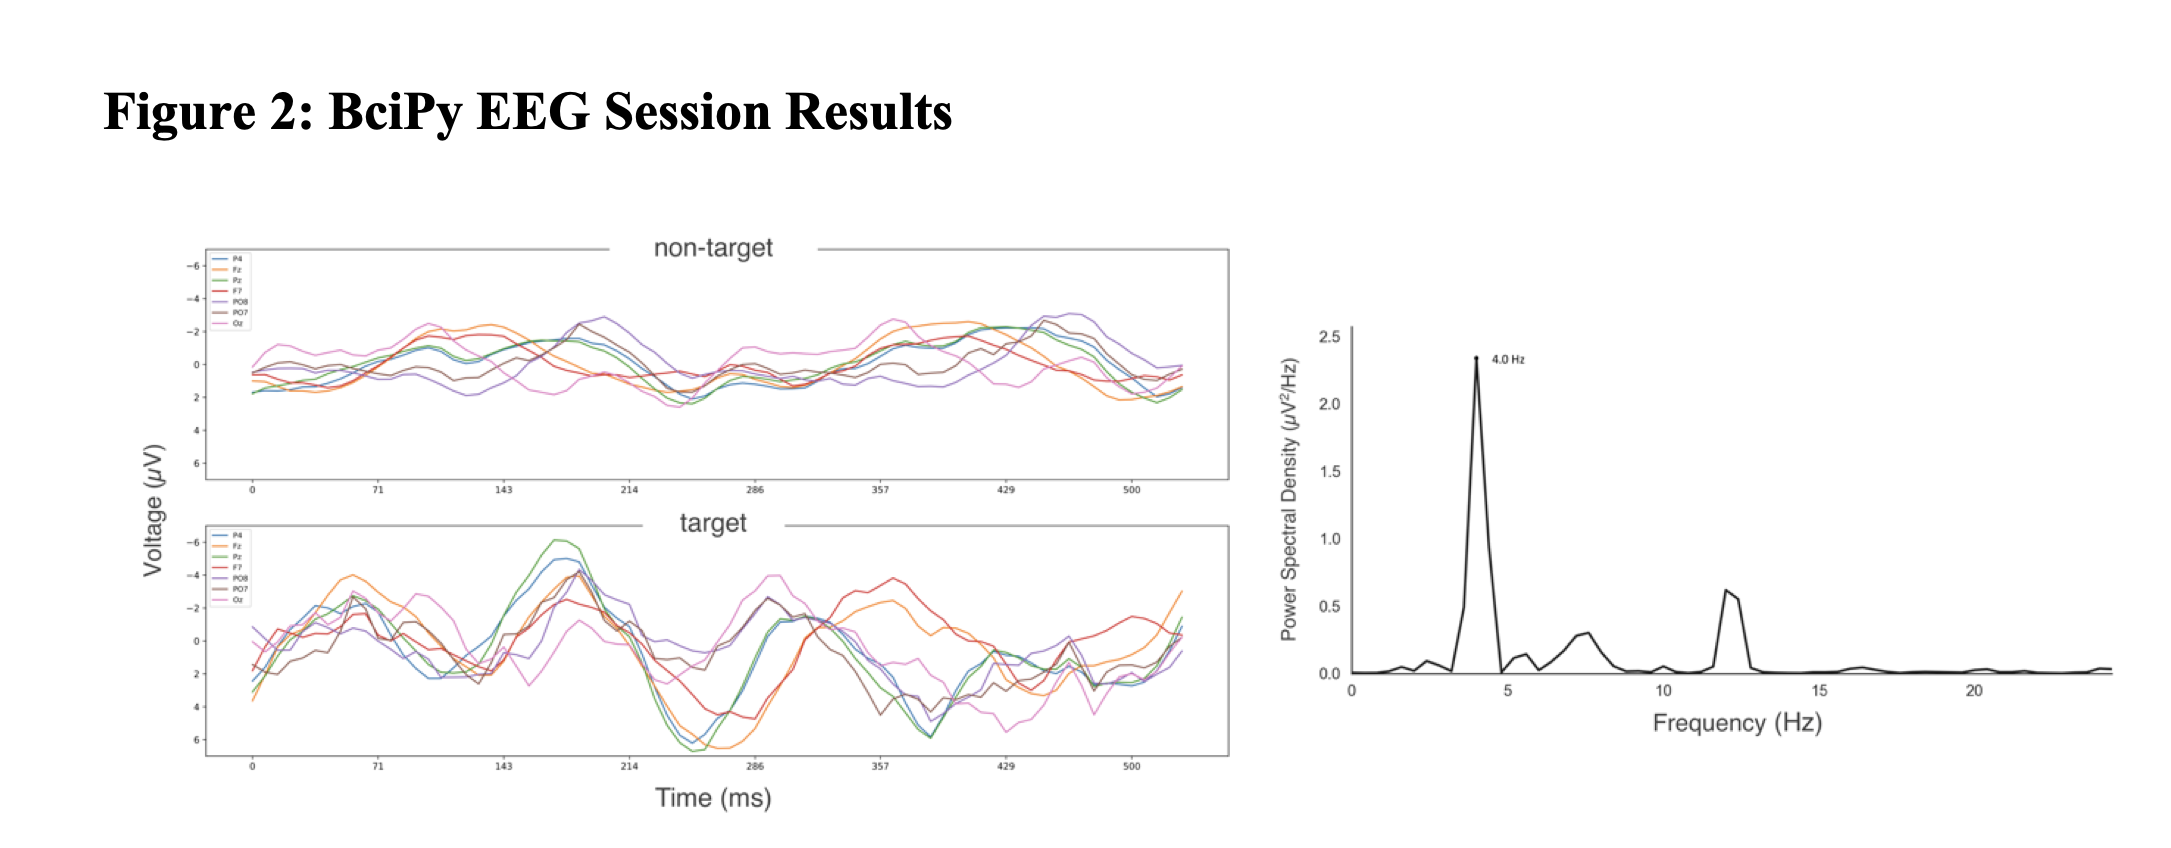
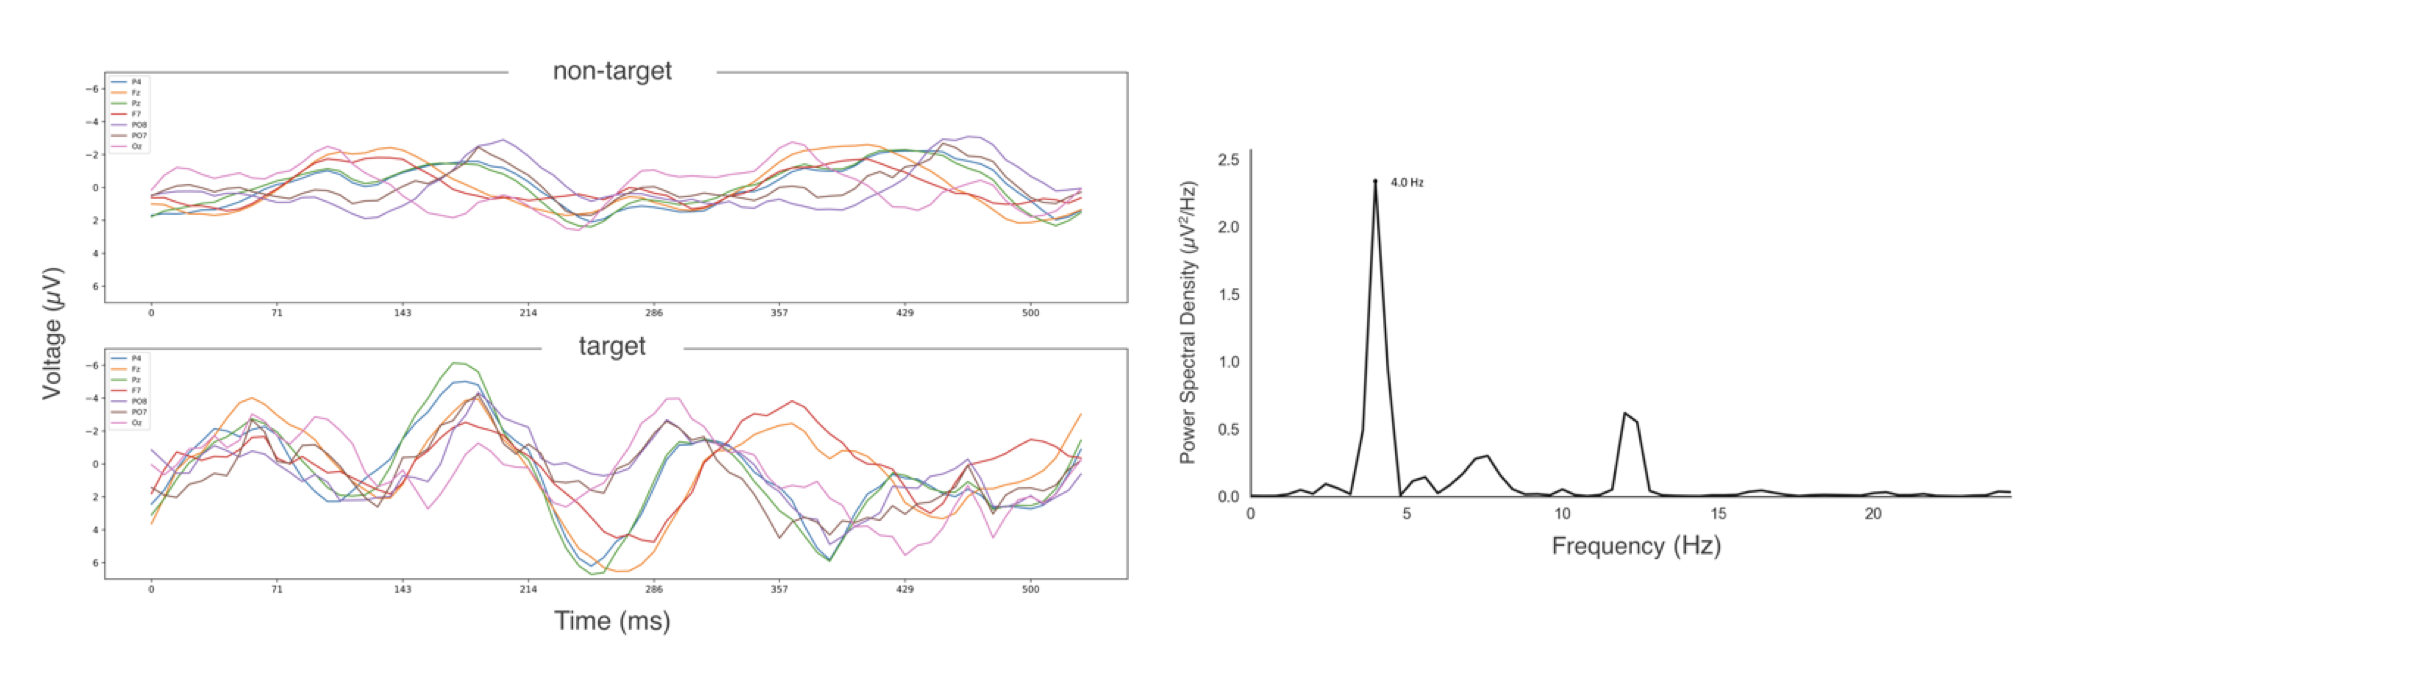
small changes
small changes

diff --git a/_posts/2021-05-10-Brain-Computer Interface Software in Python.md b/_posts/2021-05-10-Brain-Computer Interface Software in Python.md
@@ -63,7 +63,10 @@ BciPy is written using object-oriented programming, a technique that models and 
 
 Figure 1 BciPy high-level diagram of modules and implementation. This graphic demonstrates the necessary components for BCI use as well as how BciPy modules are partitioned in the current version. The implementation figure splits functionality into Frontend and Backend, in which the observable outputs of BciPy are considered frontward facing (Frontend) components.
  
-Figure 2: BciPy EEG Session Results
+### Figure 2: BciPy EEG Session Results
+
+![Image of BciPy EEG Session Results](https://github.com/BciPy/bcipy.github.io/blob/alister/assets/posts/Eegs.jpg?raw=true)
+
  Figure 2 EEG data collected using the BciPy system in RSVP Calibration mode collected using the Wearable Sensing’s VR300 system. This demonstrates the software’s ability to collect ERPs such as the P300 (left), as well as SSVEP (right) as demonstrated using PSD off the presentation rate of 4 Hz on the Oz channel.
 ### Acquisition
 The acquisition module implements a client, which interacts with a buffer and file writer to facilitate data acquisition, writing, and real-time queries. Temporally precise real-time data queries are indispensable to BCI research.

diff --git a/index.md b/index.md
@@ -4,7 +4,7 @@ title: BCIPY Documentation
 subtitle: Find the latest Articles and Documentation about BCIPY
 hero:
     background: "#0072ff"
-    image: background.jpg
+    image: BrainComputerInterfaceSystems.jpg
     overlay: "linear-gradient(90deg, rgba(2,0,36,0.5) 0%, rgba(0,114,255,0.5) 100%, rgba(0,212,255,0.5) 100%)"
     align: center
     text: light
